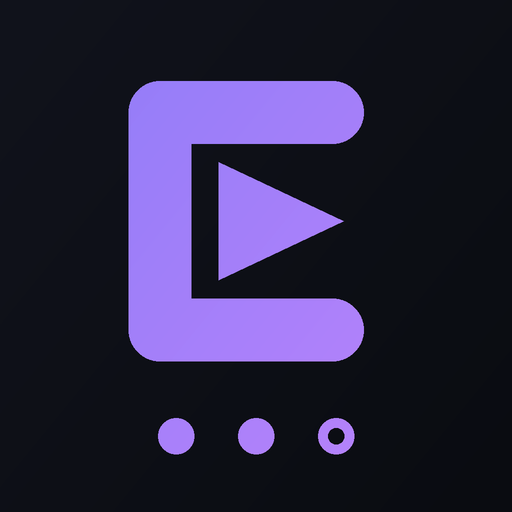
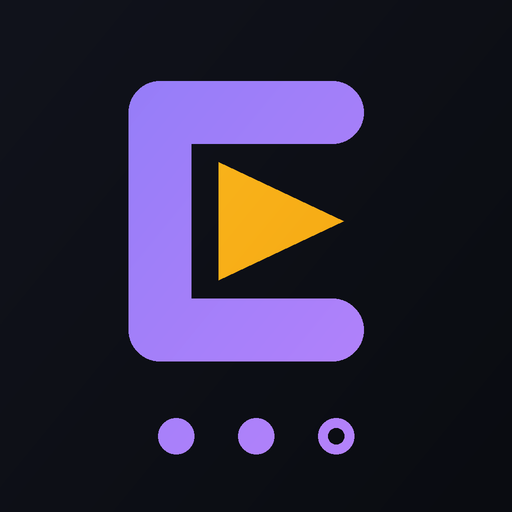
Add files via upload

Changed region(s): [[0.4062, 0.3125, 0.6875, 0.5625]]

diff --git a/index.html b/index.html
@@ -130,6 +130,13 @@ h2.sec{font-size:12px;text-transform:uppercase;letter-spacing:1.2px;color:var(--
 }
 .card.swipeable{touch-action:pan-y;will-change:transform}
 .card.dragging{transition:none}
+.swipe-wrap{position:relative;margin-bottom:11px}
+.swipe-wrap .card{margin-bottom:0;position:relative;z-index:1}
+.swipe-bg{position:absolute;inset:0;border-radius:var(--rad);display:flex;align-items:center;opacity:0;pointer-events:none}
+.swipe-bg svg{width:26px;height:26px;stroke:#0a0c11;stroke-width:2.4;fill:none;stroke-linecap:round;stroke-linejoin:round;transition:transform .12s}
+.swipe-bg.armed svg{transform:scale(1.3)}
+.sb-watch{background:var(--green);justify-content:flex-end;padding-right:24px}
+.sb-later{background:var(--gold);justify-content:flex-start;padding-left:24px}
 .poster{width:56px;height:80px;border-radius:var(--rad-s);object-fit:cover;background:var(--bg3);flex-shrink:0}
 .poster.ph{display:flex;align-items:center;justify-content:center;color:var(--tx3)}
 .poster.ph svg{width:22px;height:22px;stroke:var(--tx3);stroke-width:1.6;fill:none}
@@ -359,7 +366,8 @@ const SEED=[];
 <script>
 "use strict";
 /* ============ Episotia — personal TV tracker ============ */
-const APP_VERSION = "2.2.0";
+const APP_VERSION = "2.4.0";
+const WHATS_NEW = "Watch dates everywhere: episode pages show when you watched, Stats has a per-year breakdown, and episode details link straight to the TVmaze page (with its comments).";
 const API = "https://api.tvmaze.com";
 const LS_KEY = "episotia.v1";
 const LS_OLD = "showtime.v1";
@@ -383,6 +391,7 @@ const I = {
   search:'<svg viewBox="0 0 24 24"><circle cx="11" cy="11" r="7"/><path d="m21 21-4.3-4.3"/></svg>',
   cloud:'<svg viewBox="0 0 24 24"><path d="M17.5 19a4.5 4.5 0 0 0 .42-8.98 7 7 0 0 0-13.36 1.9A4 4 0 0 0 6 19z"/></svg>',
   moon:'<svg viewBox="0 0 24 24"><path d="M21 12.8A9 9 0 1 1 11.2 3a7 7 0 0 0 9.8 9.8z"/></svg>',
+  clock:'<svg viewBox="0 0 24 24"><circle cx="12" cy="12" r="9"/><path d="M12 7v5l3 2"/></svg>',
   chat:'<svg viewBox="0 0 24 24"><path d="M21 11.5a8.4 8.4 0 0 1-8.5 8.3 8.9 8.9 0 0 1-3.8-.8L3 20l1.1-5A8 8 0 0 1 3.5 11.5 8.4 8.4 0 0 1 12 3.2a8.4 8.4 0 0 1 9 8.3z"/></svg>',
 };
 let state = null;
@@ -478,10 +487,11 @@ function versionCheck(){
   if(state.appVersion !== APP_VERSION){
     const firstRun = !state.appVersion && !Object.keys(state.shows).length;
     state.appVersion = APP_VERSION;
+    if(!firstRun) state.showWhatsNew = APP_VERSION;
     save();
-    if(!firstRun) toast("Updated to v"+APP_VERSION+" ✨", 3500);
   }
 }
+function dismissWhatsNew(){ state.showWhatsNew = null; save(); render(); }
 
 /* ---------- state / seed ---------- */
 function seedShowObj(d){ // d = {t,d,s,f,u,w} compact seed entry
@@ -878,6 +888,7 @@ function viewToWatch(){
     <button class="chip ${twFilter==="all"?"act":""}" onclick="twFilter='all';render()">All</button>
     <button class="chip ${twFilter==="history"?"act":""}" onclick="twFilter='history';render()">History</button>
   </div>`;
+  if(state.showWhatsNew===APP_VERSION) h = `<div class="note" style="display:flex;gap:10px;align-items:center;border-left:3px solid var(--gold)"><span style="flex:1">✨ <b>Updated to v${APP_VERSION}</b> — ${esc(WHATS_NEW)}</span><button class="unmark" onclick="dismissWhatsNew()" aria-label="Dismiss">${I.x}</button></div>` + h;
   if(twFilter==="history") return h + viewHistory();
   if(!allShows().length){
     return h + `<div class="empty"><div class="big">👋</div>Welcome to Episotia!<br><br>Add shows in the <b>Search</b> tab, or import your<br>TV Time export / a backup in <b>Settings</b>.</div>`;
@@ -897,7 +908,10 @@ function viewToWatch(){
   for(const sh of items){
     const e = nextUnwatched(sh), rem = remaining(sh);
     const wc = Object.keys(sh.watched).length, tot = totalRegular(sh);
-    h += `<div class="card swipeable" data-key="${sh.key}">
+    h += `<div class="swipe-wrap">
+      <div class="swipe-bg sb-watch">${I.check}</div>
+      <div class="swipe-bg sb-later">${I.clock}</div>
+      <div class="card swipeable" data-key="${sh.key}">
       ${posterImg(sh)}
       <div class="info" onclick="openShow('${sh.key}')">
         <div class="title">${esc(sh.title)}${favBadge(sh)}</div>
@@ -909,6 +923,7 @@ function viewToWatch(){
         <button class="check-btn" onclick="quickWatch('${sh.key}')" aria-label="Mark watched">${I.check}</button>
         <div class="left-num">${rem} left</div>
       </div>
+    </div>
     </div>`;
   }
   return h;
@@ -1035,6 +1050,19 @@ function viewStats(){
     const n = counts[k]||0;
     return `<div class="bar-row"><div class="bl">${v.label}</div><div class="bt"><i style="width:${shows.length?n/shows.length*100:0}%"></i></div><div class="bv">${n}</div></div>`;
   }).join("")}
+  <h2 class="sec">Per year</h2>
+  ${(()=>{
+    const yrs = {};
+    let undatedN = 0;
+    for(const sh of shows) for(const v of Object.values(sh.watched||{})){
+      if(v>1) { const y = new Date(v).getFullYear(); yrs[y]=(yrs[y]||0)+1; } else undatedN++;
+    }
+    const ents = Object.entries(yrs).sort((a,b)=>b[0]-a[0]);
+    if(!ents.length) return '<div class="empty">No dated episodes yet.</div>';
+    const maxY = Math.max(...ents.map(e=>e[1]));
+    return ents.map(([y,n])=>`<div class="bar-row"><div class="bl">${y}</div><div class="bt"><i style="width:${n/maxY*100}%;background:var(--gold)"></i></div><div class="bv">${n}</div></div>`).join("")
+      + (undatedN?`<div class="epmeta" style="margin-top:6px">${undatedN} episodes without a date are not shown.</div>`:"");
+  })()}
   <h2 class="sec">Most watched</h2>
   ${topShows.map(([t,n])=>`<div class="bar-row"><div class="bl">${esc(t)}</div><div class="bt"><i style="width:${n/maxS*100}%"></i></div><div class="bv">${n}</div></div>`).join("") || '<div class="empty">Sync first to see this.</div>'}
   <h2 class="sec">Top genres</h2>
@@ -1231,9 +1259,11 @@ function renderEpisode(key, s, n){
     ${img?`<img class="epimg" src="${esc(img)}" alt="">`:""}
     ${rating?`<div class="eprating">${I.star}${Number(rating).toFixed(1)}<span style="color:var(--tx3);font-weight:600;font-size:12px">/10 · TVmaze community</span></div>`:""}
     ${sum?`<div class="epsum">${esc(sum)}</div>`:`<div class="epsum" style="color:var(--tx3)">${future?"Not aired yet.":"No description available."}</div>`}
+    ${on&&sh.watched[s+"-"+n]>1?`<div class="epmeta" style="color:var(--green);font-weight:700">✓ Watched ${fmtDate(new Date(sh.watched[s+"-"+n]).toISOString().slice(0,10))}</div>`:(on?`<div class="epmeta" style="color:var(--green);font-weight:700">✓ Watched (date unknown)</div>`:"")}
     <div class="actions" style="margin:10px 0 0">
       ${future?"":`<button class="abtn ${on?"":"primary"}" onclick="toggleEpModal('${key}',${s},${n})">${on?"Unmark watched":"✓ Mark watched"}</button>`}
-      <button class="abtn" onclick="window.open(redditUrl(state.shows['${key}'],${s},${n}),'_blank')">${I.chat.replace('<svg','<svg style="width:15px;height:15px;display:inline;vertical-align:-2px;stroke:currentColor;fill:none;stroke-width:1.8"')} Reddit</button>
+      ${d&&d.url?`<button class="abtn" onclick="window.open('${esc(d.url)}','_blank')">TVmaze</button>`:""}
+      <button class="abtn" onclick="window.open(redditUrl(state.shows['${key}'],${s},${n}),'_blank')">Reddit</button>
     </div>
   </div>`;
 }
@@ -1374,8 +1404,12 @@ if(typeof document!=="undefined" && document.addEventListener){
     }
     if(sw && sw.on){
       e.preventDefault();
-      sw.dx = Math.max(-130, Math.min(130, dx));
+      sw.dx = Math.max(-140, Math.min(140, dx));
       sw.card.style.transform = "translateX("+sw.dx+"px)";
+      const wrap = sw.card.parentElement;
+      const bw = wrap && wrap.querySelector(".sb-watch"), bl = wrap && wrap.querySelector(".sb-later");
+      if(bw){ bw.style.opacity = sw.dx<0 ? Math.min(1, -sw.dx/80) : 0; bw.classList.toggle("armed", sw.dx<-70); }
+      if(bl){ bl.style.opacity = sw.dx>0 ? Math.min(1, sw.dx/80) : 0; bl.classList.toggle("armed", sw.dx>70); }
     }
   }, {passive:false});
   document.addEventListener("touchend", () => {
@@ -1383,6 +1417,8 @@ if(typeof document!=="undefined" && document.addEventListener){
     const {card, key, dx, on} = sw;
     card.classList.remove("dragging");
     card.style.transform = "";
+    const wrap0 = card.parentElement;
+    if(wrap0) wrap0.querySelectorAll(".swipe-bg").forEach(b=>{ b.style.opacity = 0; b.classList.remove("armed"); });
     sw = null;
     if(!on) return;
     if(dx < -70) quickWatch(key);                     // swipe left = mark watched